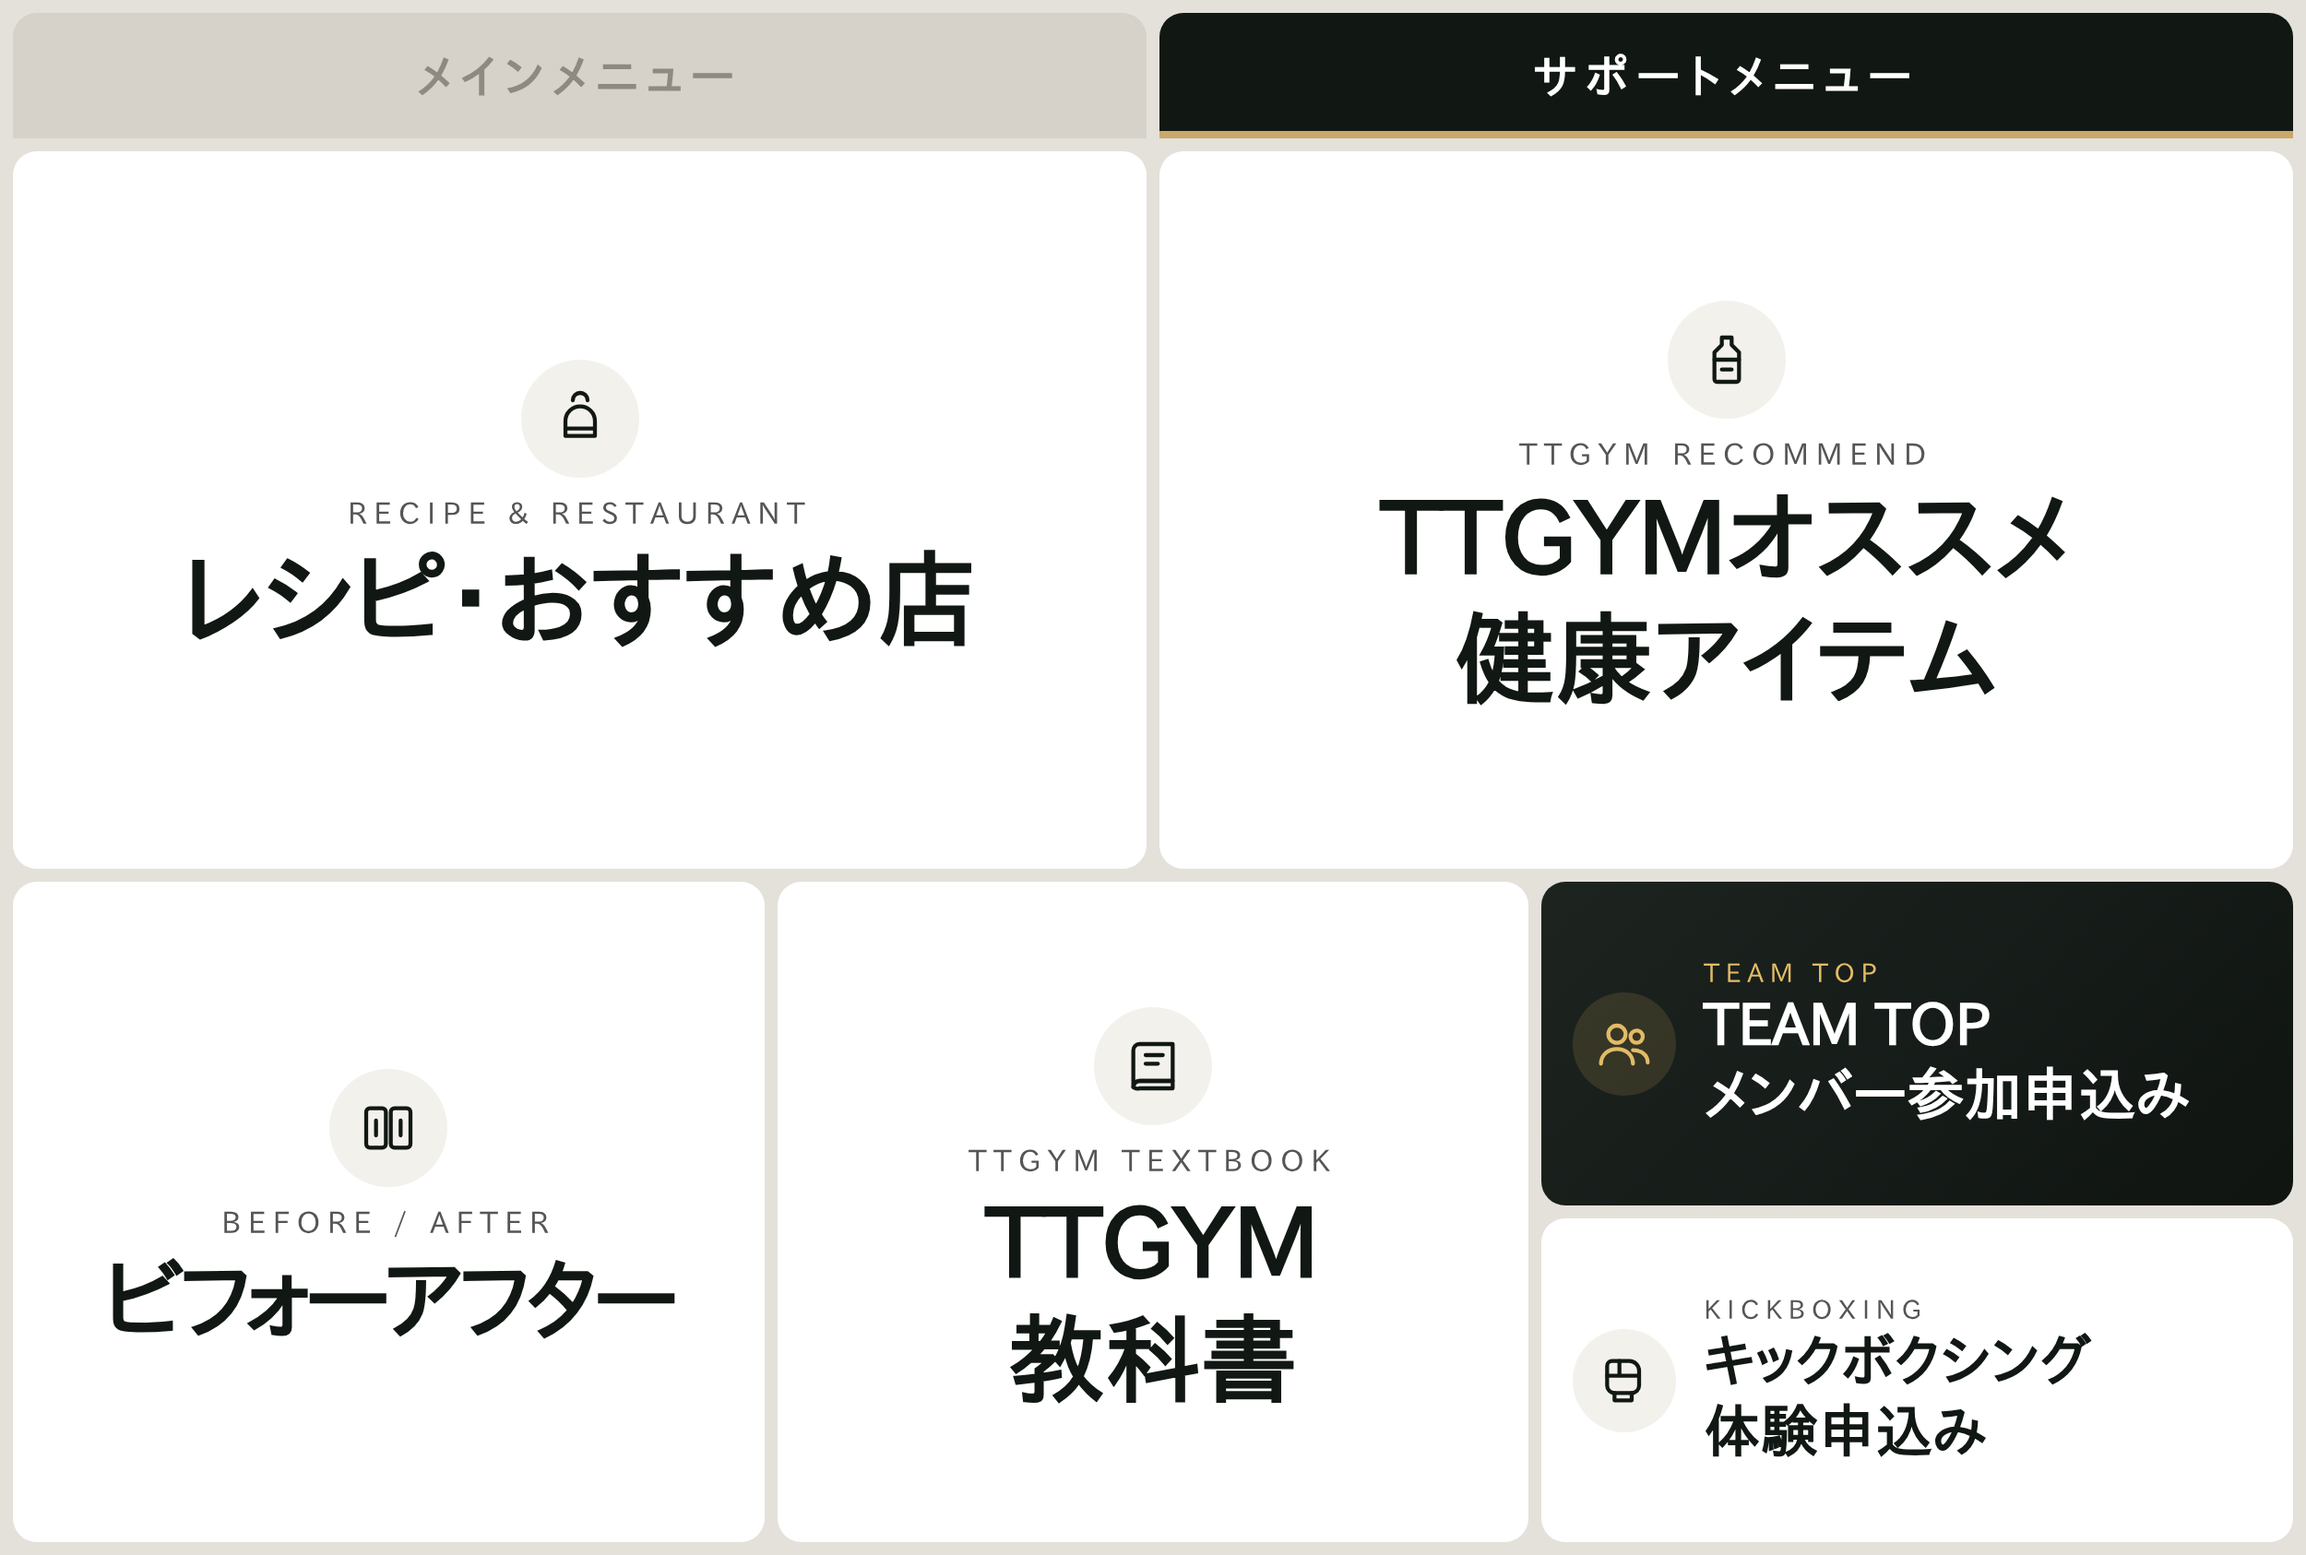
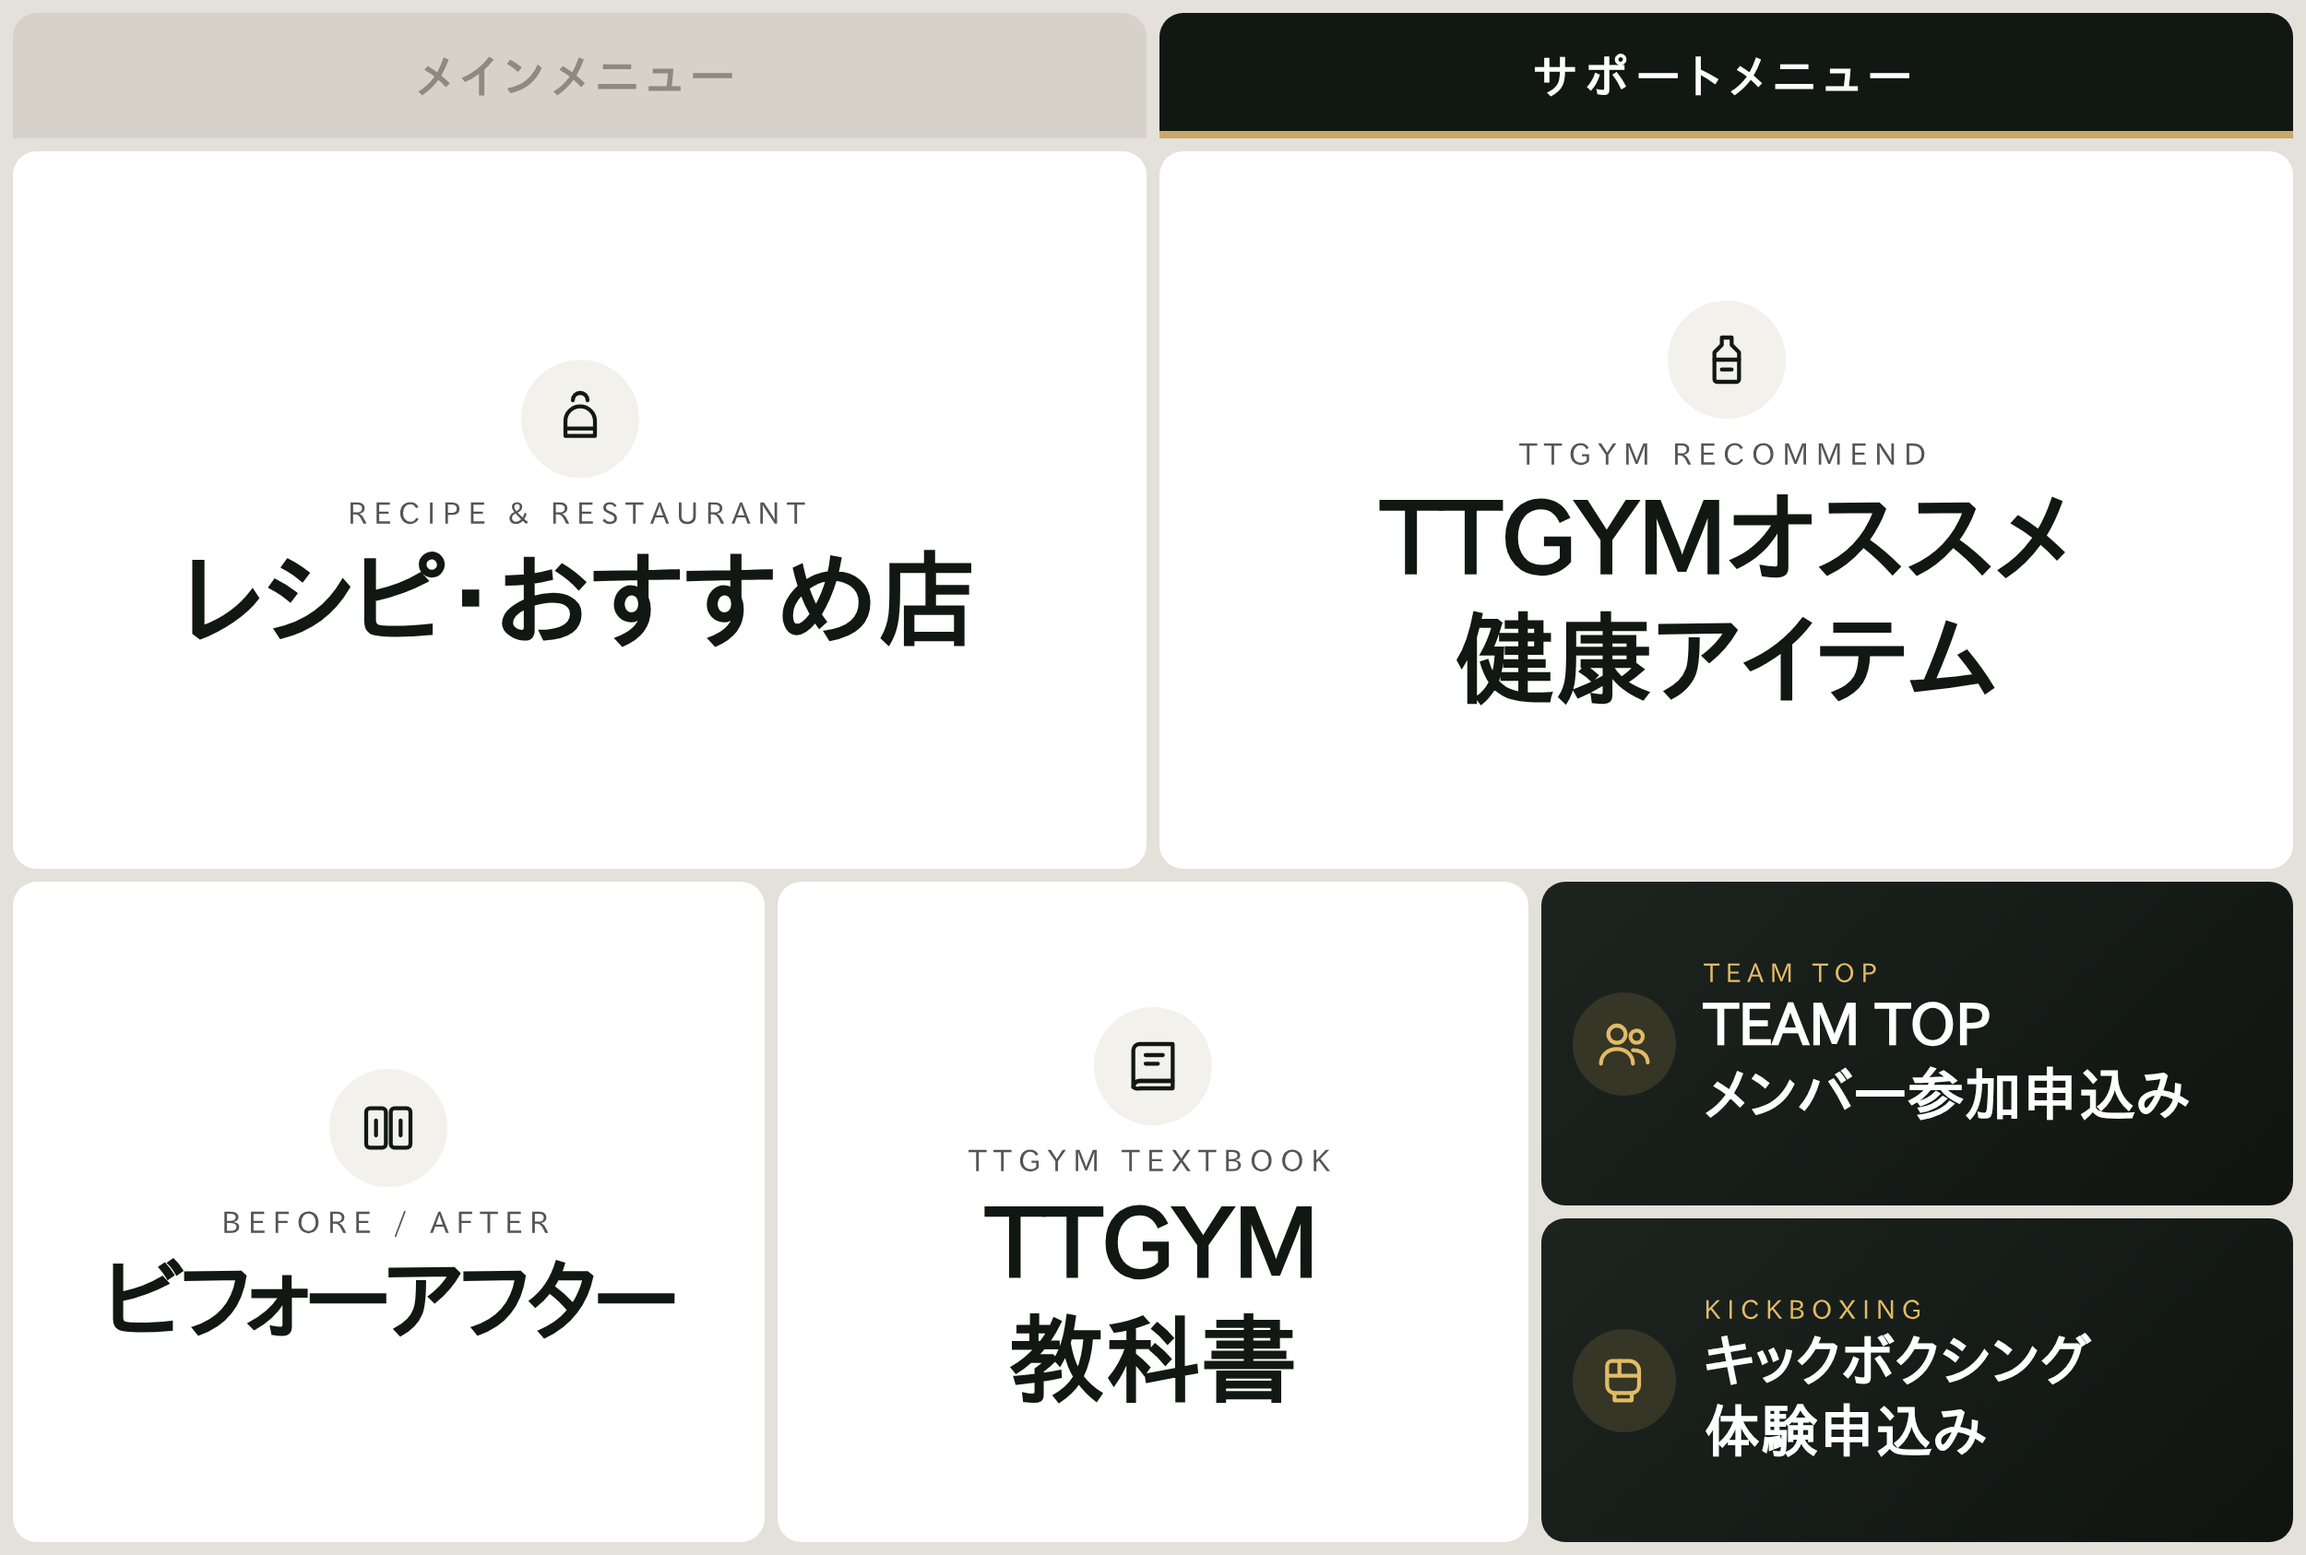
リッチメニュー: キックボクシング体験申込みを黒（TEAM TOP と同じ）に (#23)
Claude-Session: https://claude.ai/code/session_01NU1f8FhY6Up6FmWacDNM48

Changed region(s): [[0.6552, 0.7711, 0.9984, 1.0]]

diff --git a/api/_lib/richmenuAuto.js b/api/_lib/richmenuAuto.js
@@ -8,7 +8,7 @@ import { kvGet, kvSet } from "./nutri.js";
 import { setupRichMenu } from "./richmenu.js";
 import { LIFF_ID } from "../../src/lineConfig.js";
 
-export const RICHMENU_VERSION = "2026-10-29-beforeafter-one-line";
+export const RICHMENU_VERSION = "2026-10-29-kick-dark";
 
 const parse = raw => { try { return raw ? JSON.parse(raw) : null; } catch (e) { return null; } };
 const clean = v => (/^https?:\/\/\S+$/.test(String(v || "").trim()) ? String(v).trim() : "");
